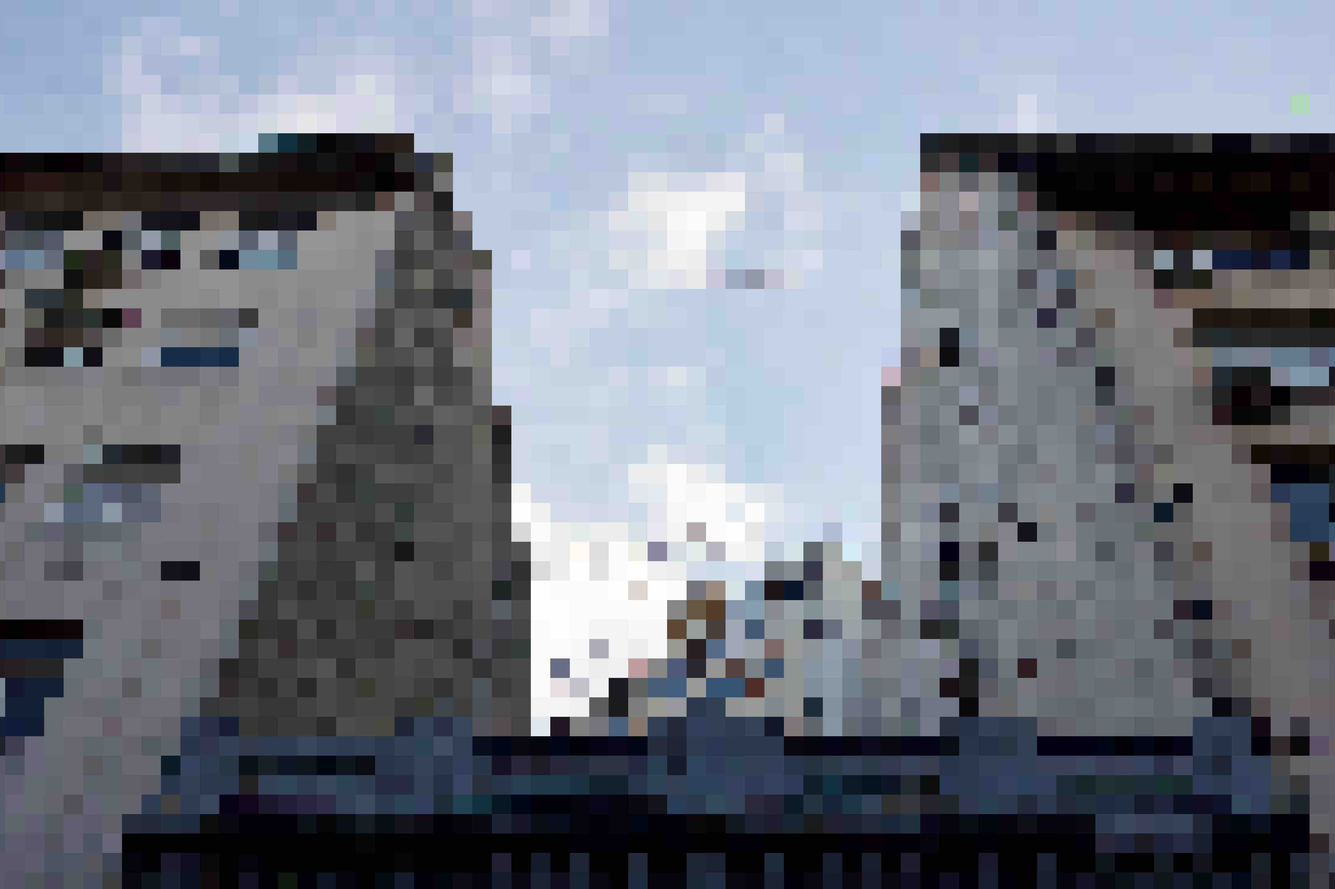
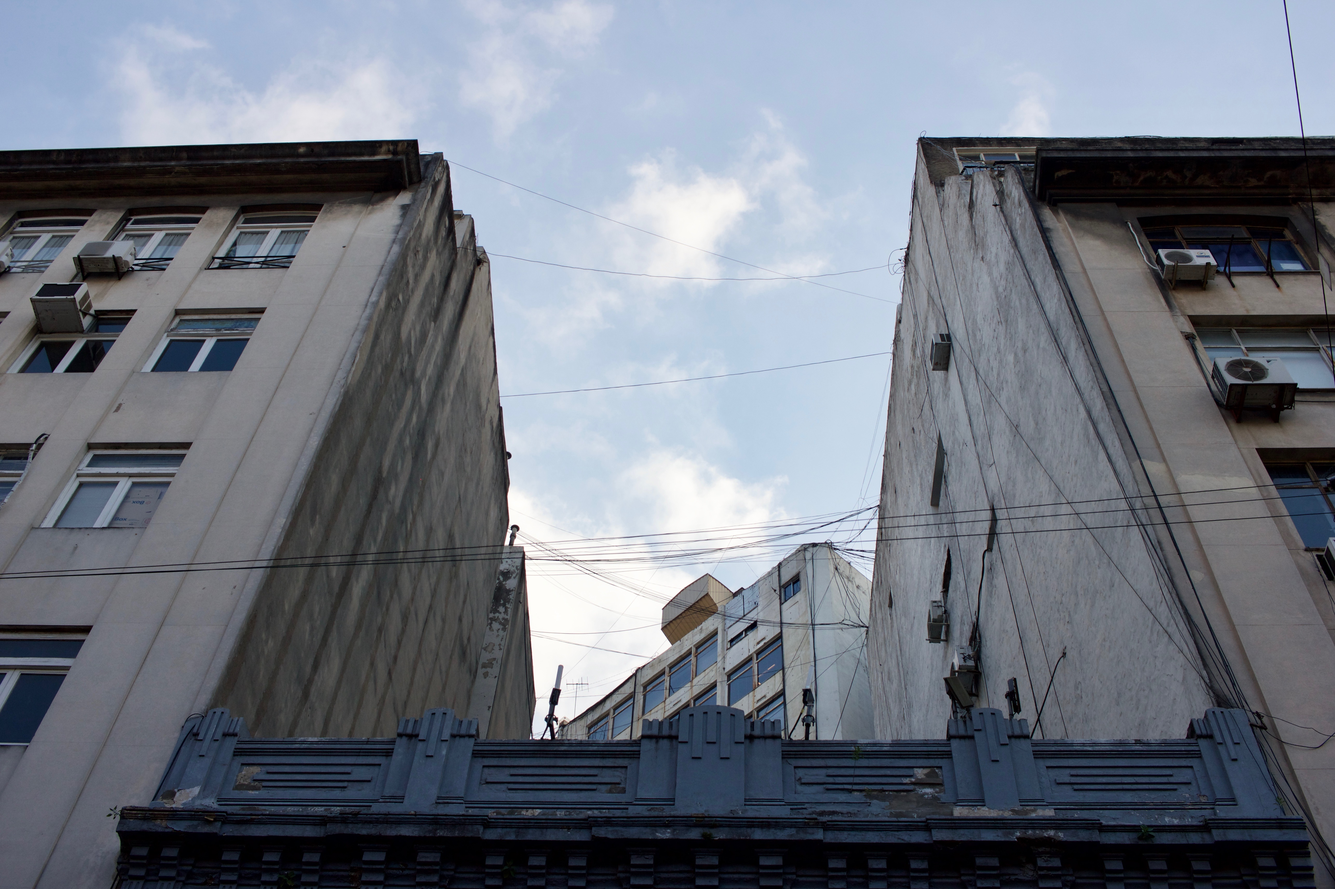
big-img broken, converting

diff --git a/what/ba_post.html b/what/ba_post.html
@@ -11,42 +11,102 @@
 </head>
 
 <body>
-		<div>
-			<h2>buenos aires postcards</h2>
-			<div style="white-space: nowrap;">
-				<big-img src="../../res/ba_post/0.jpg"></big-img>
-				<big-img src="../../res/ba_post/1.jpg"></big-img>
-				<big-img src="../../res/ba_post/2.jpg"></big-img>
-				<big-img src="../../res/ba_post/3.jpg"></big-img>
-				<big-img src="../../res/ba_post/4.jpg"></big-img>
-				<big-img src="../../res/ba_post/5.jpg"></big-img>
-				<big-img src="../../res/ba_post/6.jpg"></big-img>
-				<big-img src="../../res/ba_post/7.jpg"></big-img>
-				<big-img src="../../res/ba_post/8.jpg"></big-img>
-				<big-img src="../../res/ba_post/9.jpg"></big-img>
-				<big-img src="../../res/ba_post/10.jpg"></big-img>
-				<big-img src="../../res/ba_post/11.jpg"></big-img>
-				<big-img src="../../res/ba_post/12.jpg"></big-img>
-				<big-img src="../../res/ba_post/13.jpg"></big-img>
-				<big-img src="../../res/ba_post/14.jpg"></big-img>
-				<big-img src="../../res/ba_post/15.jpg"></big-img>
-				<big-img src="../../res/ba_post/16.jpg"></big-img>
-				<big-img src="../../res/ba_post/17.jpg"></big-img>
-				<big-img src="../../res/ba_post/18.jpg"></big-img>
-				<big-img src="../../res/ba_post/19.jpg"></big-img>
-				<big-img src="../../res/ba_post/20.jpg"></big-img>
-				<big-img src="../../res/ba_post/21.jpg"></big-img>
-				<big-img src="../../res/ba_post/22.jpg"></big-img>
-				<big-img src="../../res/ba_post/23.jpg"></big-img>
-				<big-img src="../../res/ba_post/24.jpg"></big-img>
-				<big-img src="../../res/ba_post/25.jpg"></big-img>
-				<big-img src="../../res/ba_post/26.jpg"></big-img>
-				<big-img src="../../res/ba_post/27.jpg"></big-img>
-				<big-img src="../../res/ba_post/28.jpg"></big-img>
-				<big-img src="../../res/ba_post/29.jpg"></big-img>
-			</div>
+	<div>
+		<h2>buenos aires postcards</h2>
+		<div class="gallery" style="white-space: nowrap;">
+			<div class="gallery-img-container">
+                <img class="gallery-img" src="../res/ba_post/0.jpg"></img>
+            </div>
+			<div class="gallery-img-container">
+                <img class="gallery-img" src="../res/ba_post/1.jpg"></img>
+            </div>
+			<div class="gallery-img-container">
+                <img class="gallery-img" src="../res/ba_post/2.jpg"></img>
+            </div>
+			<div class="gallery-img-container">
+                <img class="gallery-img" src="../res/ba_post/3.jpg"></img>
+            </div>
+			<div class="gallery-img-container">
+                <img class="gallery-img" src="../res/ba_post/4.jpg"></img>
+            </div>
+			<div class="gallery-img-container">
+                <img class="gallery-img" src="../res/ba_post/5.jpg"></img>
+            </div>
+			<div class="gallery-img-container">
+                <img class="gallery-img" src="../res/ba_post/6.jpg"></img>
+            </div>
+			<div class="gallery-img-container">
+                <img class="gallery-img" src="../res/ba_post/7.jpg"></img>
+            </div>
+			<div class="gallery-img-container">
+                <img class="gallery-img" src="../res/ba_post/8.jpg"></img>
+            </div>
+			<div class="gallery-img-container">
+                <img class="gallery-img" src="../res/ba_post/9.jpg"></img>
+            </div>
+			<div class="gallery-img-container">
+                <img class="gallery-img" src="../res/ba_post/10.jpg"></img>
+            </div>
+			<div class="gallery-img-container">
+                <img class="gallery-img" src="../res/ba_post/11.jpg"></img>
+            </div>
+			<div class="gallery-img-container">
+                <img class="gallery-img" src="../res/ba_post/12.jpg"></img>
+            </div>
+			<div class="gallery-img-container">
+                <img class="gallery-img" src="../res/ba_post/13.jpg"></img>
+            </div>
+			<div class="gallery-img-container">
+                <img class="gallery-img" src="../res/ba_post/14.jpg"></img>
+            </div>
+			<div class="gallery-img-container">
+                <img class="gallery-img" src="../res/ba_post/15.jpg"></img>
+            </div>
+			<div class="gallery-img-container">
+                <img class="gallery-img" src="../res/ba_post/16.jpg"></img>
+            </div>
+			<div class="gallery-img-container">
+                <img class="gallery-img" src="../res/ba_post/17.jpg"></img>
+            </div>
+			<div class="gallery-img-container">
+                <img class="gallery-img" src="../res/ba_post/18.jpg"></img>
+            </div>
+			<div class="gallery-img-container">
+                <img class="gallery-img" src="../res/ba_post/19.jpg"></img>
+            </div>
+			<div class="gallery-img-container">
+                <img class="gallery-img" src="../res/ba_post/20.jpg"></img>
+            </div>
+			<div class="gallery-img-container">
+                <img class="gallery-img" src="../res/ba_post/21.jpg"></img>
+            </div>
+			<div class="gallery-img-container">
+                <img class="gallery-img" src="../res/ba_post/22.jpg"></img>
+            </div>
+			<div class="gallery-img-container">
+                <img class="gallery-img" src="../res/ba_post/23.jpg"></img>
+            </div>
+			<div class="gallery-img-container">
+                <img class="gallery-img" src="../res/ba_post/24.jpg"></img>
+            </div>
+			<div class="gallery-img-container">
+                <img class="gallery-img" src="../res/ba_post/25.jpg"></img>
+            </div>
+			<div class="gallery-img-container">
+                <img class="gallery-img" src="../res/ba_post/26.jpg"></img>
+            </div>
+			<div class="gallery-img-container">
+                <img class="gallery-img" src="../res/ba_post/27.jpg"></img>
+            </div>
+			<div class="gallery-img-container">
+                <img class="gallery-img" src="../res/ba_post/28.jpg"></img>
+            </div>
+			<div class="gallery-img-container">
+                <img class="gallery-img" src="../res/ba_post/29.jpg"></img>
+            </div>
 		</div>
+	</div>
 
 </body>
-<script src="../big_img.js"></script>
+<script src="../../big_img.js"></script>
 </html>

diff --git a/what/taipei_tokyo.html b/what/taipei_tokyo.html
@@ -1,0 +1,22 @@
+<!DOCTYPE html>
+<html lang="en">
+
+<head>
+	<meta charset="utf-8">
+	<meta name="viewport" content="width=device-width, initial-scale=1">
+	<script src="https://ajax.googleapis.com/ajax/libs/jquery/3.2.1/jquery.min.js"></script>
+	<title>BA POST</title>
+    <link rel="icon" type="img/png" href="../favicons/line3.png">
+	<link href="../style.css?v=3.0.1" rel="stylesheet"/>
+    <script src="../../big_img.js"></script>
+</head>
+
+<body>
+		<div>
+			<h2>buenos aires postcards</h2>
+			<div style="white-space: nowrap;">
+			</div>
+		</div>
+
+</body>
+</html>
